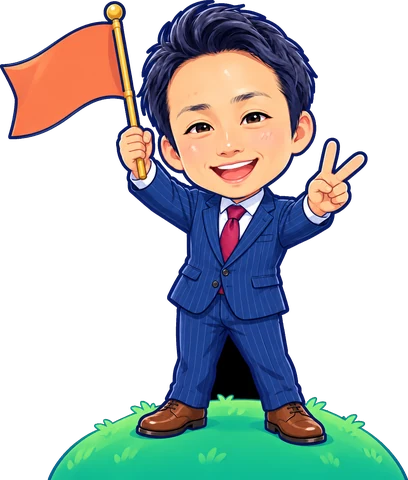
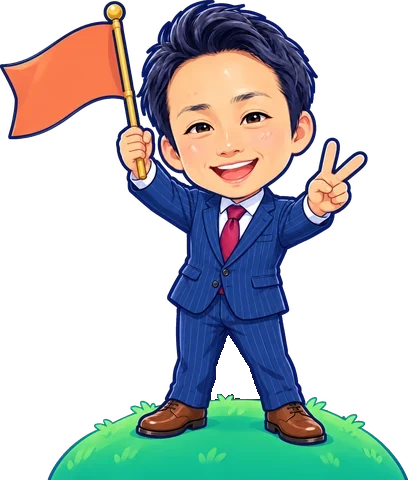
あき先生の画像のすき間に残っていた黒を透明に（8枚）

Changed region(s): [[0.5, 0.6875, 0.6471, 0.8438]]

diff --git a/index.html b/index.html
@@ -949,6 +949,8 @@ function lessonSentences(w,arg,done){
 /* --- シャドーイング --- */
 function lessonShadow(w,step,done){
   const lines=w.dialogue.lines;let st=step||"listen",showJa=st==="listen"||st==="read",role="A",rate=S.settings.rate,playing=-1,reps=0;
+  // 一時停止して続きから：pos＝次に読む行。録音の声は文の途中から、端末の声はその行の頭から再開する
+  let pos=0,run=false,loopTk=0,midAudio=false;
   const speakers=[...new Set(lines.map(l=>l.s))];
   function enClass(){return (st==="listen"||st==="shadow")?"en blur":"en"}
   function draw(body){
@@ -959,23 +961,37 @@ function lessonShadow(w,step,done){
      <div class="stack" style="gap:4px">${lines.map((l,k)=>`<div class="dl ${k===playing?"playing":""} ${st==="role"&&l.s===role?"mine":""}" data-line="${k}">
        <span class="who">${esc(l.name||l.s)}</span><div class="t"><span class="${st==="role"&&l.s===role?"en blur":enClass()}">${tg(l.en)}</span>${showJa?`<span class="ja">${esc(l.ja)}</span>`:""}</div>${spkBtn(l.en)}</div>`).join("")}</div>
      <div class="row"><button class="btn sm ghost" id="tja">${showJa?"日本語を隠す":"日本語を表示"}</button><button class="btn sm ghost" id="ten">文を一時表示</button></div>
-     <div class="ctrl"><button class="btn accent" id="play">▶ 再生</button><button class="btn" id="stop">■ 止める</button>
+     <p class="small muted">行をタップすると、その行から読み始めます。</p>
+     <div class="ctrl">${run?`<button class="btn accent" id="pause">❚❚ 一時停止</button>`:`<button class="btn accent" id="play">▶ ${pos>0?`続きから（${pos+1}行目）`:"再生"}</button>`}<button class="btn" id="stop">${pos>0||run?"⟲ 最初に戻す":"■ 止める"}</button>
       <select id="rate" aria-label="速さ">${[0.6,0.7,0.8,0.9,1].map(r=>`<option value="${r}" ${r==rate?"selected":""}>速さ ${r}</option>`).join("")}</select>
       <span class="small muted mono">${reps}回</span><button class="btn primary" data-finish style="margin-left:auto">完了</button></div></div>`;
     bindFinish(body,done);
-    body.querySelectorAll("[data-st]").forEach(b=>b.onclick=()=>{stopSpeak();st=b.dataset.st;showJa=st==="listen"||st==="read";playing=-1;draw(body)});
+    body.querySelectorAll("[data-st]").forEach(b=>b.onclick=()=>{stopSpeak();st=b.dataset.st;showJa=st==="listen"||st==="read";playing=-1;pos=0;run=false;midAudio=false;draw(body)});
     body.querySelectorAll("[data-role]").forEach(b=>b.onclick=()=>{role=b.dataset.role;draw(body)});
     body.querySelector("#tja").onclick=()=>{showJa=!showJa;draw(body)};
     body.querySelector("#ten").onclick=()=>{body.querySelectorAll(".en.blur").forEach(e=>e.classList.remove("blur"))};
     body.querySelector("#rate").onchange=e=>{rate=+e.target.value};
-    body.querySelector("#stop").onclick=()=>{stopSpeak();playing=-1;draw(body)};
-    body.querySelector("#play").onclick=async()=>{stopSpeak();const tk=++speakToken;
-      for(let k=0;k<lines.length;k++){if(tk!==speakToken)return;playing=k;mark(body,k);
-        const l=lines[k];
-        if(st==="role"&&l.s===role){const words=l.en.split(/\s+/).length;await sleep(Math.max(2500,words*600/rate))}
-        else{await speak(l.en,rate);await sleep(st==="listen"||st==="read"?500:300)}}
-      if(tk===speakToken){playing=-1;reps++;draw(body)}};
+    body.querySelector("#stop").onclick=()=>{stopSpeak();playing=-1;pos=0;run=false;midAudio=false;draw(body)};
+    const pl=body.querySelector("#play");if(pl)pl.onclick=()=>resume(body);
+    const pa=body.querySelector("#pause");if(pa)pa.onclick=()=>pause(body);
+    body.querySelectorAll("[data-line]").forEach(e=>e.onclick=ev=>{if(ev.target.closest("[data-say]"))return;const k=+e.dataset.line,was=run;
+      stopSpeak();run=false;midAudio=false;pos=k;playing=k;if(was)play(body);else draw(body)});
   }
+  const audEl=()=>typeof AUD!=="undefined"&&AUD?AUD:null;
+  const audBusy=()=>typeof audDone!=="undefined"&&!!audDone;
+  async function play(body){stopSpeak();const tk=++speakToken;loopTk=tk;run=true;midAudio=false;draw(body);
+    for(let k=pos;k<lines.length;k++){if(tk!==speakToken)return;pos=k;playing=k;mark(body,k);
+      const l=lines[k];
+      if(st==="role"&&l.s===role){const words=l.en.split(/\s+/).length;await sleep(Math.max(2500,words*600/rate));if(tk!==speakToken)return;pos=k+1}
+      else{await speak(l.en,rate);if(tk!==speakToken)return;pos=k+1;await sleep(st==="listen"||st==="read"?500:300)}}
+    if(tk===speakToken){playing=-1;pos=0;run=false;reps++;draw(body)}}
+  function pause(body){run=false;const a=audEl();
+    if(a&&audBusy()&&!a.paused){a.pause();midAudio=true}   // 録音の声：その場で止める（続きは同じ位置から）
+    else{midAudio=false;stopSpeak()}                         // 端末の声：止めて、その行の頭から読み直す
+    if(pos>=lines.length)pos=0;playing=pos;draw(body);mark(body,pos)}
+  function resume(body){const a=audEl();
+    if(midAudio&&loopTk===speakToken&&audBusy()&&a){midAudio=false;run=true;draw(body);mark(body,pos);const r=a.play();if(r)r.catch(()=>play(body))}
+    else play(body)}
   function mark(body,k){body.querySelectorAll(".dl").forEach((e,j)=>e.classList.toggle("playing",j===k));const e=body.querySelector(`[data-line="${k}"]`);if(e)e.scrollIntoView({block:"center",behavior:"smooth"})}
   openLesson("シャドーイング",`W${w.week}`,"",draw)}
 

diff --git a/sw.js b/sw.js
@@ -1,5 +1,5 @@
 // ヒンディー語52週：オフラインでも開けるようにする
-const VERSION = "64a27e6e1a";
+const VERSION = "2a10ba6604";
 const CACHE = "hindi52-" + VERSION;
 const FILES = ["./", "index.html", "manifest.webmanifest", "icon-192.png", "icon-512.png", "apple-touch-icon.png", "data/phase1.js", "data/phase2.js", "data/phase3.js", "data/phase4.js", "img/aki-base.webp", "img/aki-card.webp", "img/aki-cards.webp", "img/aki-chart.webp", "img/aki-check.webp", "img/aki-cheer.webp", "img/aki-goal.webp", "img/aki-graduate.webp", "img/aki-handshake.webp", "img/aki-listen.webp", "img/aki-medal.webp", "img/aki-morning.webp", "img/aki-night.webp", "img/aki-online.webp", "img/aki-point.webp", "img/aki-rest.webp", "img/aki-study.webp", "img/aki-talk.webp", "img/aki-think.webp", "img/aki-travel.webp", "img/aki-wave.webp", "img/aki-write.webp", "img/ch-chat.webp", "img/ch-mail.webp", "img/ch-meet.webp", "img/ch-phone.webp", "img/ch-video.webp", "img/empty-notes.webp", "img/fx-done.webp", "img/hero-sky.webp", "img/ic-grammar.webp", "img/ic-input.webp", "img/ic-review.webp", "img/ic-roleplay.webp", "img/ic-sentences.webp", "img/ic-shadow.webp", "img/ic-speak.webp", "img/ic-streak.webp", "img/ic-test.webp", "img/ic-vocab.webp", "img/ic-writing.webp", "img/map-route.webp", "img/partner-priya.webp", "img/partner-raj.webp", "img/partner-sharma.webp", "img/scene-1.webp", "img/scene-2.webp", "img/scene-3.webp", "img/scene-4.webp", "img/stamp-1.webp", "img/stamp-2.webp", "img/stamp-3.webp", "img/stamp-4.webp", "img/sync-devices.webp", "img/tab-guide.webp", "img/tab-map.webp", "img/tab-notes.webp", "img/tab-record.webp", "img/tab-today.webp"];
 self.addEventListener("install", e => { e.waitUntil(caches.open(CACHE).then(c => c.addAll(FILES)).then(() => self.skipWaiting())); });
